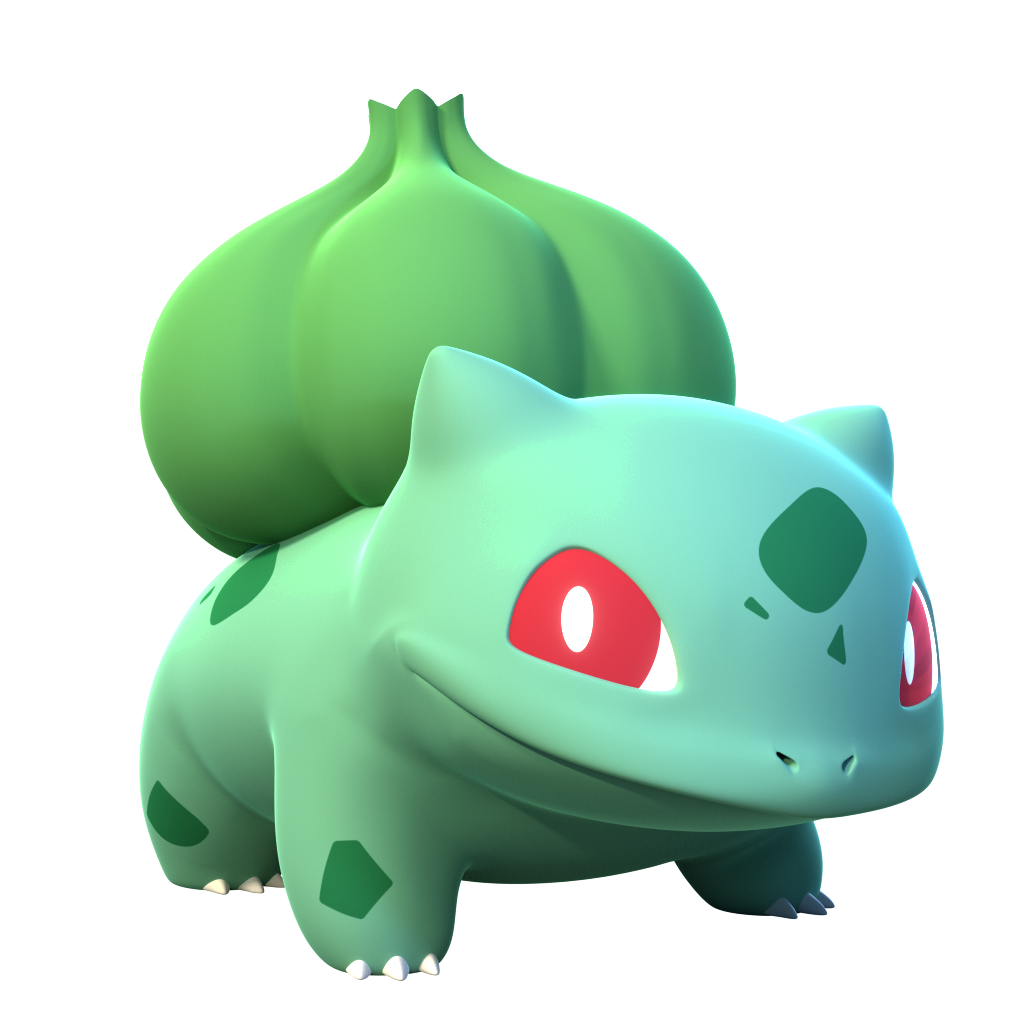
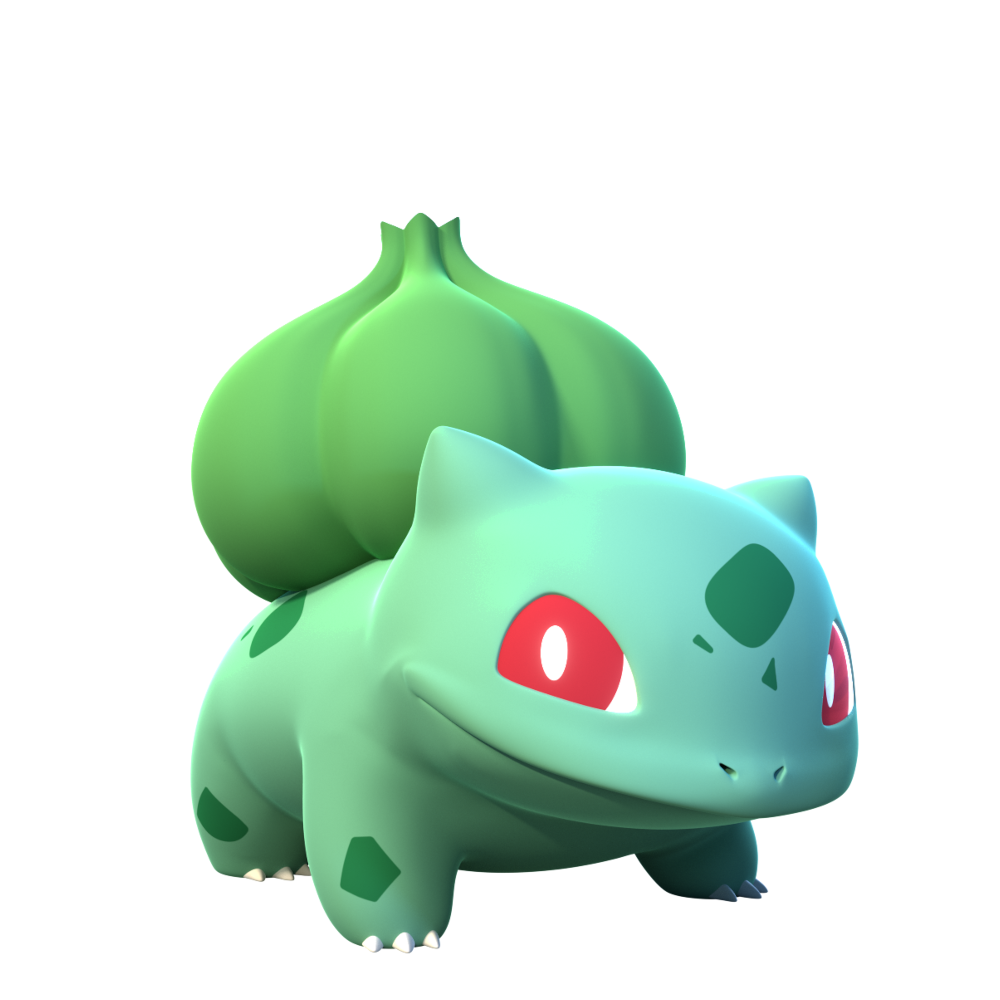
myPokemon styles

diff --git a/pokedexA2/assets/style/style.css b/pokedexA2/assets/style/style.css
@@ -4,11 +4,13 @@
     box-sizing: border-box;
     margin: 0;
 }
+
 body {
-    background-color:#F2F8FF;
+    background-color: #F2F8FF;
     color: #133F5D;
-    font-family:'Open Sans';
+    font-family: 'Open Sans';
 }
+
 header {
     position: fixed;
     padding: 30px 20px 30px 20px;
@@ -17,19 +19,23 @@ header {
     width: 15%;
     height: 100vh;
 }
+
 h1 {
-    font-style:italic;
+    font-style: italic;
     color: #4195D5;
     font-size: 24px;
 }
+
 nav {
     padding: 40px 0 40px 0;
     font-size: 12px;
 }
+
 nav>div {
     margin-bottom: 10px;
 }
-main { 
+
+main {
     width: 85%;
     height: 100%;
     height: auto;
@@ -37,6 +43,7 @@ main {
     padding-right: 0;
     float: right;
 }
+
 .card {
     align-items: center;
     background-color: white;
@@ -48,23 +55,76 @@ main {
     outline: 6px solid rgba(255, 255, 255, 0.4);
     padding: 10px;
 }
+
 .heading {
     width: 100%;
+    display: flex;
+    align-items: center;
 }
+
+.icons {
+    flex-basis: 30px;
+    height: 100%;
+    border: 1px solid #9CC8E7;
+    border-radius: 5px;
+    padding: 5px;
+    background-color: #F7FBFD;
+}
+
+.my-pokemon-icon {
+    background-image: url('../img/Vector.svg'), url('../img/Vector-1.svg');
+    background-position: center;
+    background-repeat: no-repeat;
+    width: 100%;
+    height: 100%;
+}
+
+.heading>h3 {
+    padding-left: 10px;
+    flex-basis: 65%;
+}
+
+.stats {
+    flex-basis: 25%;
+    text-align: center;
+    padding: 5px 10px;
+    border-radius: 100px;
+    border: 1px solid #9CC8E7;
+}
+
+.stats>div {
+    display: flex;
+    color: #6FAFDC;
+}
+
+.stats-icon {
+    background-image: url('../img/bar-chart-2.svg');
+    background-position: center;
+    background-repeat: no-repeat;
+    flex-basis: 35%;
+    height: auto;
+}
+
 .content {
     padding: 10px;
+    height: 100%;
 }
+
 .content>* {
     margin-bottom: 10px;
 }
+
 .content>p {
     font-size: 14px;
-    width: 80%; 
+    width: 80%;
+    height: 20%;
 }
+
 .elements {
     display: flex;
     align-items: center;
 }
+
 .elements>div {
     flex-basis: 20%;
     flex-shrink: 1;
@@ -76,122 +136,160 @@ main {
     margin-left: 5px;
     margin-right: 5px;
 }
+
 .elements>div:first-child {
     margin-left: auto;
 }
+
 .elements>div:last-child {
     margin-right: auto;
 }
+
 .fire {
     background-color: red;
 }
+
 .grass {
     background-color: green;
 }
+
 .poison {
     background-color: purple;
 }
+
+.water {
+    background-color: blue;
+}
+
+.normal {
+    background-color: grey;
+}
+
 figure {
-    width: 60%;
+    width: 100%;
+    height: auto;
     padding: 20px;
 }
+
 img {
     background-size: contain;
     background-position: center;
     background-repeat: no-repeat;
-    height:auto;
-    width: 100%;
+    height: auto;
+    width: 60%;
 }
+
 p {
     text-align: center;
 }
+
 .flex {
     display: flex;
     flex-direction: column;
 }
+
 .outer-container {
     display: flex;
-    flex:1;
+    flex: 1;
     flex-direction: row;
     min-height: 480px;
     margin-bottom: 30px;
 }
+
 .outer-container:last-child {
     margin-bottom: 0;
 }
+
 .inner-container {
     flex-grow: 1;
     flex-basis: 100%;
-    flex-shrink : 1;
+    flex-shrink: 1;
     outline: 1px solid red;
 }
+
 .double {
     flex-grow: 2;
     flex-shrink: 2;
     flex-basis: 100%;
 }
+
 .margin {
     margin-right: 0;
 }
+
 .pokemon-nav {
     display: flex;
     align-items: center;
 }
+
 .pokemon-nav>div {
     cursor: pointer;
     border-radius: 15px;
     padding: 5px;
     background-color: #CAE2F2;
 }
+
 .pokemon-nav>div:first-child {
     margin-left: auto;
 }
+
 .pokemon-nav>div:last-child {
     margin-right: auto;
 }
+
 .pokemon-nav>div {
     margin: 5px;
 }
+
 .active-pokemon {
-    background-color: #4195D5!important;
+    background-color: #4195D5 !important;
 }
+
 #calendar {
     display: flex;
     font-size: 12px;
     flex-direction: column;
 }
+
 #calendar>div {
     display: flex;
     flex: 1;
     margin: 0.3em;
 }
+
 #calendar>div>div {
     flex: 1;
 }
+
 #calendar p {
     flex: 1;
     padding: 0.7em;
     text-align: center;
     border-radius: 5px;
 }
+
 .grey {
     color: #CAE2F2;
 
 }
+
 .bg {
-    color : #6FAFDC;
+    color: #6FAFDC;
     background-color: #F7FBFD;
 }
+
 .today {
     background-color: #4195D5;
     color: white;
 }
+
 .calendar-head {
     font-weight: bolder;
 }
+
 input {
     width: 100%;
     height: 120%;
     border: 0;
-    
+
 }

diff --git a/pokedexA2/assets/script/dom.js b/pokedexA2/assets/script/dom.js
@@ -11,19 +11,23 @@ class Pokemon {
 }
 
 function defaultPokemon() {
-    const charmeleon = new Pokemon("Charmeleon",
-                                    "assets/img/charmeleon.png",
-                                    "Charmeleon mercilessly destroys its foes using its sharp claws. If it encounters a strong foe, it turns aggressive.",
+    const charmander = new Pokemon("Charmander",
+                                    "assets/img/charmander.png",
+                                    "Charmander is a bipedal, reptilian Pokemon with a primarily orange body and blue eyes.",
                                     ["Fire"]);
     const bulbasaur = new Pokemon("Bulbasaur",
                                     "assets/img/bulbasaur.png",
                                     "There is a plant seed on its back right from the day this Pokemon is born. The seed slowly grows larger.",
                                     ["Grass", "Poison"]);
-    pokemonList.push(charmeleon,bulbasaur);
+    const squirtle = new Pokemon("Squirtle",
+                                    "assets/img/squirtle.png",
+                                    "Squirtle is a small Pokemon that resembles a light-blue turtle.  It has large, purplish or reddish eyes.",
+                                    ["Water"])
+    pokemonList.push(charmander,bulbasaur,squirtle);
 }
 defaultPokemon();
 
-insertPokemonToMyPokemon(1);
+insertPokemonToMyPokemon(0);
 function insertPokemonToMyPokemon(index) {
     const pokemonI = pokemonList[index];
 

diff --git a/pokedexA2/index.html b/pokedexA2/index.html
@@ -39,7 +39,16 @@
                 <div class="inner-container">
                     <div class="card margin"> 
                         <div class="heading">
+                            <div class="icons">
+                                <div class="my-pokemon-icon"></div>
+                            </div>
                             <h3>My Pokemon</h3>
+                            <div class="stats">
+                                <div>
+                                    <div class="stats-icon"></div>
+                                    <p>Stats</p>
+                                </div>
+                            </div>
                         </div>
                         <div id="my-pokemon" class="content" align="center">
                             <!-- <figure>
